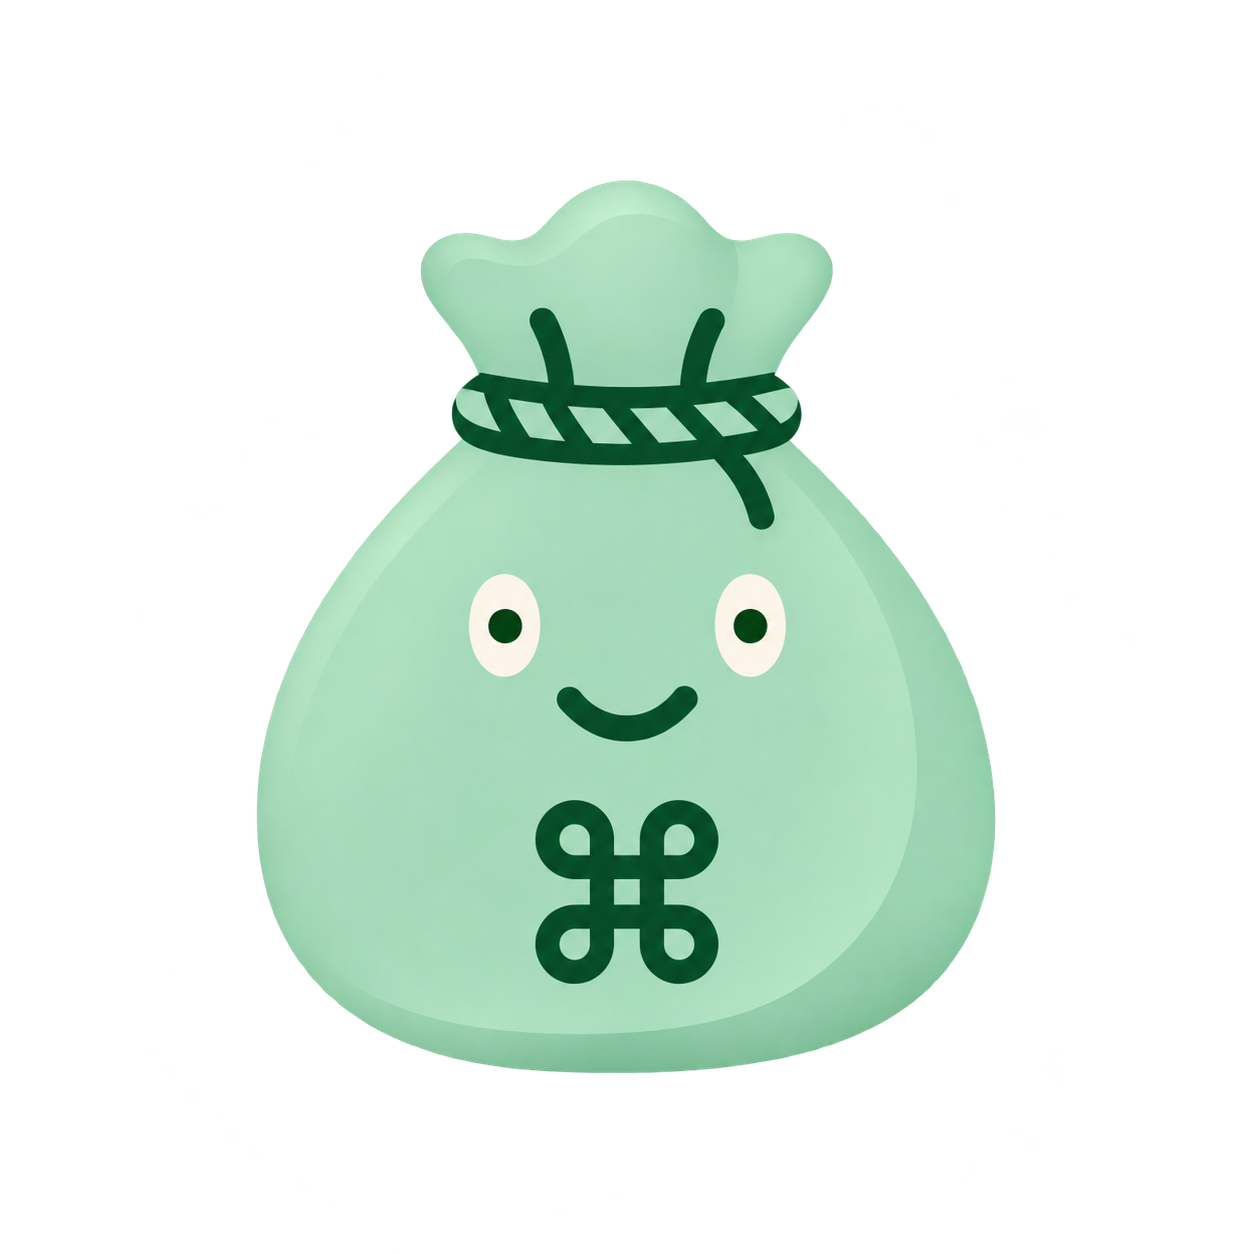
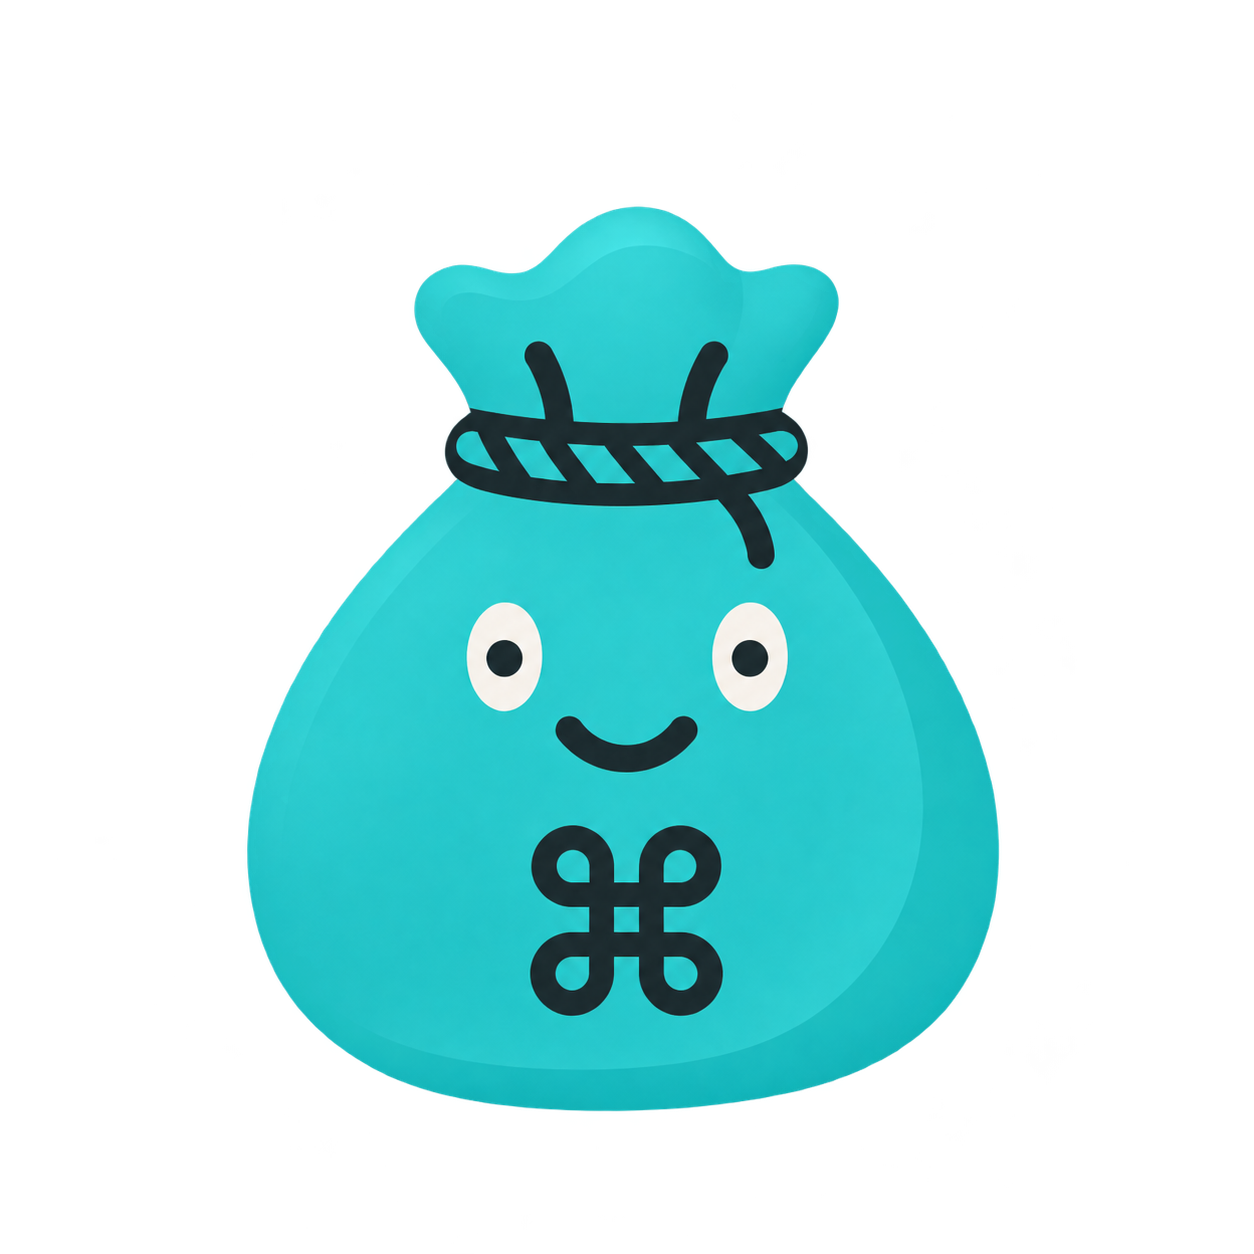
Restore Cliphoard teal and keep sensitive reveal in its panel

diff --git a/Sources/Cliphoard/Support/SensitiveClipReveal.swift b/Sources/Cliphoard/Support/SensitiveClipReveal.swift
@@ -66,9 +66,16 @@ final class SensitiveClipReveal: ObservableObject {
     private var state = SensitiveRevealState()
     private var context: LAContext?
     private var expiry: Timer?
+    private var completion: Task<Void, Never>?
+    private let authenticate: (LAContext, @escaping @Sendable (Bool) -> Void) -> Void
+    private let restoreFocus: (NSWindow?) -> Bool
     private var observers: [NSObjectProtocol] = []
 
-    private init() {
+    init(authenticate: ((LAContext, @escaping @Sendable (Bool) -> Void) -> Void)? = nil,
+         restoreFocus: ((NSWindow?) -> Bool)? = nil, observeSystemEvents: Bool = true) {
+        self.authenticate = authenticate ?? Self.authenticateWithMac
+        self.restoreFocus = restoreFocus ?? Self.restoreAuthenticationFocus
+        guard observeSystemEvents else { return }
         for name in [NSWorkspace.sessionDidResignActiveNotification, NSWorkspace.screensDidSleepNotification,
                      NSWorkspace.willSleepNotification] {
             observers.append(NSWorkspace.shared.notificationCenter.addObserver(forName: name, object: nil, queue: .main) { [weak self] _ in
@@ -83,20 +90,42 @@ final class SensitiveClipReveal: ObservableObject {
                 Task { @MainActor in self?.lock() }
             })
         observers.append(NotificationCenter.default.addObserver(forName: NSApplication.didResignActiveNotification, object: nil, queue: .main) { [weak self] _ in
-            Task { @MainActor in
-                // LA's own system prompt may deactivate the app. Sleep/session
-                // notifications still cancel pending authentication unconditionally.
+            MainActor.assumeIsolated {
+                // This notification belongs to the focus change that just happened.
+                // Reading the state on a later task can relock a completed prompt.
                 guard let self, !self.isAuthenticating else { return }
                 self.lock()
             }
         })
     }
+
+    private static func authenticateWithMac(_ context: LAContext, reply: @escaping @Sendable (Bool) -> Void) {
+        // Uses the system's device-owner authentication, including its configured fallback.
+        context.touchIDAuthenticationAllowableReuseDuration = 0
+        guard context.canEvaluatePolicy(.deviceOwnerAuthentication, error: nil) else {
+            reply(false)
+            return
+        }
+        context.evaluatePolicy(.deviceOwnerAuthentication, localizedReason: "Reveal this sensitive clipboard item") {
+            success, _ in reply(success)
+        }
+    }
+
+    private static func restoreAuthenticationFocus(_ origin: NSWindow?) -> Bool {
+        guard let origin, origin.isVisible, NSApp.isActive || origin.isKeyWindow else { return false }
+        guard NSApp.keyWindow == nil || NSApp.keyWindow === origin else { return false }
+        if !origin.isKeyWindow { origin.makeKey() }
+        return origin.isKeyWindow
+    }
+
     func isConcealed(_ item: ClipItem) -> Bool {
         SensitiveClipPolicy.requiresAuthentication(item)
             && !state.permits(id: item.id, fingerprint: SensitiveClipPolicy.fingerprint(item), now: ProcessInfo.processInfo.systemUptime)
     }
     func lock() {
         state.lock()
+        completion?.cancel()
+        completion = nil
         context?.invalidate()
         context = nil
         expiry?.invalidate()
@@ -106,38 +135,42 @@ final class SensitiveClipReveal: ObservableObject {
         revision &+= 1
     }
     func reveal(_ item: ClipItem) {
+        guard !isAuthenticating else { return }
         lock()
         let request = state.begin(id: item.id, fingerprint: SensitiveClipPolicy.fingerprint(item))
+        let origin = NSApp?.keyWindow
         let context = LAContext()
         self.context = context
-        // Uses system device-owner authentication (Touch ID, Mac password or
-        // other OS-configured mechanisms such as Apple Watch), never a custom
-        // password field, administrator authorization, or biometry-only fallback.
-        context.touchIDAuthenticationAllowableReuseDuration = 0
-        var error: NSError?
-        guard context.canEvaluatePolicy(.deviceOwnerAuthentication, error: &error) else {
-            state.lock()
-            self.context = nil
-            authenticationFailed = true
-            revision &+= 1
-            return
-        }
         isAuthenticating = true
-        context.evaluatePolicy(.deviceOwnerAuthentication, localizedReason: "Reveal this sensitive clipboard item") { [weak self] success, _ in
+
+        authenticate(context) { [weak self, weak origin] success in
             Task { @MainActor in
                 guard let self, self.state.pending == request else { return }
-                self.state.complete(request, success: success,
-                    fingerprint: SensitiveClipPolicy.fingerprint(item), now: ProcessInfo.processInfo.systemUptime)
-                self.context = nil
-                self.isAuthenticating = false
-                self.authenticationFailed = self.isConcealed(item)
-                self.revision &+= 1
-                self.expiry = Timer.scheduledTimer(withTimeInterval: 60, repeats: false) { [weak self] _ in
-                    Task { @MainActor in self?.lock() }
+                self.completion = Task { @MainActor [weak self, weak origin] in
+                    // LocalAuthentication can reply before the system window returns key
+                    // focus. Keep the panel's dismiss guard active through that transition.
+                    try? await Task.sleep(for: .milliseconds(250))
+                    guard !Task.isCancelled, let self, self.state.pending == request else { return }
+                    let focusRestored = self.restoreFocus(origin)
+                    // An explicit close or a lock during focus restoration invalidates the request.
+                    guard self.state.pending == request else { return }
+                    self.state.complete(request, success: success && focusRestored,
+                        fingerprint: SensitiveClipPolicy.fingerprint(item), now: ProcessInfo.processInfo.systemUptime)
+                    self.context = nil
+                    self.completion = nil
+                    self.authenticationFailed = self.isConcealed(item)
+                    self.isAuthenticating = false
+                    self.revision &+= 1
+                    if !self.authenticationFailed {
+                        self.expiry = Timer.scheduledTimer(withTimeInterval: 60, repeats: false) { [weak self] _ in
+                            Task { @MainActor in self?.lock() }
+                        }
+                    }
                 }
             }
         }
     }
+
 }
 
 /// Replaces the content subtree; no blur, opacity or accessibility-only mask.
@@ -145,7 +178,7 @@ final class SensitiveClipReveal: ObservableObject {
 @MainActor
 struct SensitiveClipPlaceholder: View {
     let item: ClipItem
-    @ObservedObject private var reveal = SensitiveClipReveal.shared
+    @ObservedObject var reveal = SensitiveClipReveal.shared
     var body: some View {
         VStack(spacing: 12) {
             Image(systemName: "lock.shield.fill").font(.title)

diff --git a/Tests/CliphoardTests/SensitiveRevealInteractionTests.swift b/Tests/CliphoardTests/SensitiveRevealInteractionTests.swift
@@ -1,0 +1,108 @@
+import AppKit
+import SwiftUI
+import XCTest
+@testable import Cliphoard
+
+@MainActor
+final class SensitiveRevealInteractionTests: XCTestCase {
+    func testAuthenticationKeepsDismissGuardUntilFocusReturns() async throws {
+        var reply: (@Sendable (Bool) -> Void)?
+        var focusRestorations = 0
+        let reveal = SensitiveClipReveal(authenticate: { _, callback in reply = callback },
+            restoreFocus: { _ in focusRestorations += 1; return true }, observeSystemEvents: false)
+        let item = sensitiveClip()
+        reveal.reveal(item)
+        XCTAssertTrue(reveal.isAuthenticating)
+        try XCTUnwrap(reply)(true)
+        await Task.yield()
+        XCTAssertTrue(reveal.isAuthenticating, "macOS can report success before returning key focus")
+        XCTAssertTrue(reveal.isConcealed(item))
+        try await waitForCompletion(reveal)
+        XCTAssertEqual(focusRestorations, 1)
+        XCTAssertFalse(reveal.isConcealed(item))
+        reveal.lock()
+    }
+
+    func testSwitchingAwayOrLockingDuringAuthenticationStaysConcealed() async throws {
+        var reply: (@Sendable (Bool) -> Void)?
+        let reveal = SensitiveClipReveal(authenticate: { _, callback in reply = callback },
+            restoreFocus: { _ in false }, observeSystemEvents: false)
+        let item = sensitiveClip()
+        reveal.reveal(item)
+        try XCTUnwrap(reply)(true)
+        try await waitForCompletion(reveal)
+        XCTAssertTrue(reveal.isConcealed(item))
+        XCTAssertTrue(reveal.authenticationFailed)
+        reveal.reveal(item)
+        let lateReply = try XCTUnwrap(reply)
+        reveal.lock()
+        lateReply(true)
+        await Task.yield()
+        XCTAssertTrue(reveal.isConcealed(item))
+        XCTAssertFalse(reveal.isAuthenticating)
+        XCTAssertFalse(reveal.authenticationFailed)
+    }
+
+    func testCancellingAuthenticationReturnsFocusButStaysConcealed() async throws {
+        var restored = false
+        let reveal = SensitiveClipReveal(authenticate: { _, reply in reply(false) },
+            restoreFocus: { _ in restored = true; return true }, observeSystemEvents: false)
+        let item = sensitiveClip()
+        reveal.reveal(item)
+        try await waitForCompletion(reveal)
+        XCTAssertTrue(restored)
+        XCTAssertTrue(reveal.isConcealed(item))
+        XCTAssertTrue(reveal.authenticationFailed)
+    }
+
+    func testNativeRevealClickDoesNotActivateTheSelectedCard() async throws {
+        _ = NSApplication.shared
+        var prompts = 0
+        var cardTaps = 0
+        let reveal = SensitiveClipReveal(authenticate: { _, _ in prompts += 1 },
+            observeSystemEvents: false)
+        let card = ClipCardView(sensitiveReveal: reveal, item: sensitiveClip(), index: 0,
+            selected: true, storeDir: FileManager.default.temporaryDirectory, onActivate: { cardTaps += 1 },
+            onInspect: {}, onInspectTags: {}, onPin: {}, onDelete: {}, historyIsMutable: true,
+            onTap: { cardTaps += 1 })
+        let host = NSHostingView(rootView: card)
+        let window = NSWindow(contentRect: NSRect(x: 80, y: 80, width: Theme.cardWidth, height: Theme.thumbnailHeight),
+                              styleMask: [.borderless], backing: .buffered, defer: false)
+        window.isReleasedWhenClosed = false
+        window.contentView = host
+        window.orderBack(nil)
+        defer { reveal.lock(); window.close() }
+        host.layoutSubtreeIfNeeded()
+        try await Task.sleep(for: .milliseconds(100))
+        // The centered button follows two text rows and the shield. Try a small
+        // vertical range to account for the user's chosen text metrics and bar height.
+        for offset in stride(from: 34.0, through: 90.0, by: 8.0) where prompts == 0 {
+            let y = host.bounds.midY + (host.isFlipped ? offset : -offset)
+            let point = host.convert(NSPoint(x: host.bounds.midX, y: y), to: nil)
+            for type in [NSEvent.EventType.leftMouseDown, .leftMouseUp] {
+                let event = try XCTUnwrap(NSEvent.mouseEvent(with: type, location: point,
+                    modifierFlags: [], timestamp: ProcessInfo.processInfo.systemUptime,
+                    windowNumber: window.windowNumber, context: nil, eventNumber: Int(offset),
+                    clickCount: 1, pressure: 1))
+                window.sendEvent(event)
+            }
+            try await Task.sleep(for: .milliseconds(20))
+        }
+        XCTAssertEqual(prompts, 1)
+        XCTAssertEqual(cardTaps, 0)
+        XCTAssertTrue(reveal.isAuthenticating)
+    }
+
+    private func sensitiveClip() -> ClipItem {
+        let item = ClipItem(kind: .text, text: "Synthetic protected fixture")
+        item.flags = [.secret]
+        return item
+    }
+
+    private func waitForCompletion(_ reveal: SensitiveClipReveal) async throws {
+        for _ in 0..<30 where reveal.isAuthenticating {
+            try await Task.sleep(for: .milliseconds(25))
+        }
+        XCTAssertFalse(reveal.isAuthenticating)
+    }
+}

diff --git a/Tests/CliphoardTests/BrandIconTests.swift b/Tests/CliphoardTests/BrandIconTests.swift
@@ -21,12 +21,13 @@ final class BrandIconTests: XCTestCase {
                 XCTAssertEqual(try XCTUnwrap(bitmap.colorAt(x: x, y: y)).alphaComponent, 0)
             }
             let fabric = try XCTUnwrap(bitmap.colorAt(x: bitmap.pixelsWide / 2,
-                y: bitmap.pixelsHigh * 3 / 5)?.usingColorSpace(.deviceRGB))
+                y: bitmap.pixelsHigh * 63 / 100)?.usingColorSpace(.deviceRGB))
             XCTAssertGreaterThan(fabric.alphaComponent, 0.99)
+            XCTAssertGreaterThan(fabric.greenComponent, fabric.redComponent + 0.25)
+            XCTAssertGreaterThan(fabric.blueComponent, fabric.redComponent + 0.25)
             brightness.append((fabric.redComponent + fabric.greenComponent + fabric.blueComponent) / 3)
         }
-        XCTAssertLessThan(brightness[0], 0.4, "Light themes use the deeper green mascot")
-        XCTAssertGreaterThan(brightness[1], 0.7, "Dark themes use the lighter green mascot")
+        XCTAssertGreaterThan(brightness[1], brightness[0] + 0.04, "Dark UI uses the brighter teal")
     }
     func testPupilsAreCenteredWithinBothEyeWhites() throws {
         for scheme in [ColorScheme.light, .dark] {
@@ -36,7 +37,7 @@ final class BrandIconTests: XCTestCase {
             let height = bitmap.pixelsHigh
             for xRange in [0.30...0.47, 0.53...0.67] {
                 var eyePixels: [(Int, Int)] = []
-                for y in Int(Double(height) * 0.45)...Int(Double(height) * 0.54) {
+                for y in Int(Double(height) * 0.47)...Int(Double(height) * 0.57) {
                     for x in Int(Double(width) * xRange.lowerBound)...Int(Double(width) * xRange.upperBound) {
                         guard let color = bitmap.colorAt(x: x, y: y)?.usingColorSpace(.deviceRGB) else { continue }
                         if color.alphaComponent > 0.99 && color.redComponent > 0.85 &&
@@ -52,8 +53,8 @@ final class BrandIconTests: XCTestCase {
                 let center = try XCTUnwrap(bitmap.colorAt(x: (left + right) / 2,
                     y: (top + bottom) / 2)?.usingColorSpace(.deviceRGB))
                 XCTAssertLessThan(center.redComponent, 0.3)
-                XCTAssertGreaterThan(center.greenComponent, center.redComponent + 0.1,
-                    "The green pupil sits at the center of each ivory eye")
+                XCTAssertGreaterThan(center.greenComponent, center.redComponent + 0.02,
+                    "The dark teal pupil sits at the center of each ivory eye")
             }
         }
     }

diff --git a/Sources/Cliphoard/UI/ContentView.swift b/Sources/Cliphoard/UI/ContentView.swift
@@ -633,7 +633,8 @@ struct ContentView: View {
                                 // when the app looks broken is to clear it.
                                 historyIsMutable: !store.safeMode,
                                 modelTags: ClipCardTags.modelLabels(for: row.item, embedder: EmbedderProvider.active),
-                                onFileVerb: { model.onFileVerb?(row.item, $0) }
+                                onFileVerb: { model.onFileVerb?(row.item, $0) },
+                                onTap: { model.click(row.index) }
                             )
                             // Identity is the clip's id (from ForEach) — NOT the index.
                             // An index-based .id reused stale views across filters
@@ -643,7 +644,6 @@ struct ContentView: View {
                                     Text(source).font(.caption2).padding(4).background(.regularMaterial).allowsHitTesting(false)
                                 }
                             }
-                            .onTapGesture { model.click(row.index) }
                         }
                     }
                 }
@@ -815,7 +815,7 @@ struct ContentView: View {
         if results.indices.contains(model.selection) {
             let item = results[model.selection]
             if sensitiveReveal.isConcealed(item) {
-                SensitiveClipPlaceholder(item: item)
+                SensitiveClipPlaceholder(item: item, reveal: sensitiveReveal)
             } else {
                 revealedPreviewPane(item)
             }

diff --git a/Sources/Cliphoard/UI/ClipCardView.swift b/Sources/Cliphoard/UI/ClipCardView.swift
@@ -378,6 +378,7 @@ struct ClipCardView: View {
     /// uses, and not the `historyIsMutable` case, which is about a control that would look
     /// live while refusing.
     var onFileVerb: ((FileVerb) -> Void)? = nil
+    var onTap: (() -> Void)? = nil
 
 
     /// Decoded thumbnails keyed by file name, so the body doesn't re-decode the
@@ -405,12 +406,13 @@ struct ClipCardView: View {
 
     @ViewBuilder var body: some View {
         if sensitiveReveal.isConcealed(item) {
-            SensitiveClipPlaceholder(item: item)
+            SensitiveClipPlaceholder(item: item, reveal: sensitiveReveal)
                 .frame(width: Theme.cardWidth, height: Theme.thumbnailHeight)
                 .background(Theme.cardBackground())
                 .clipShape(RoundedRectangle(cornerRadius: Theme.cornerRadius))
         } else {
             revealedBody
+                .onTapGesture { onTap?() }
         }
     }
 

diff --git a/Tests/CliphoardTests/NativeCardInteractionTests.swift b/Tests/CliphoardTests/NativeCardInteractionTests.swift
@@ -66,8 +66,7 @@ final class NativeCardInteractionTests: XCTestCase {
         let card = ClipCardView(item: item, index: 10, selected: selected,
             storeDir: dir,
             onActivate: {}, onInspect: { inspected += 1 }, onInspectTags: {},
-            onPin: {}, onDelete: {}, historyIsMutable: true)
-            .onTapGesture { selectedByClick += 1 }
+            onPin: {}, onDelete: {}, historyIsMutable: true, onTap: { selectedByClick += 1 })
         let host = TestHostingView(rootView: card)
         let window = NSWindow(contentRect: NSRect(x: 80, y: 80, width: 220,
                                                  height: max(250, Theme.thumbnailStripHeight)),

diff --git a/Scripts/audit-no-models.py b/Scripts/audit-no-models.py
@@ -30,8 +30,8 @@ def check_environment(environment):
 
 
 BRAND_ICON_PINS = {
[4 lines of base64/hex data omitted]
 }
 
 TEXT_RESOURCES = {"LICENSE", "LICENSE-Apache-2.0.txt", "THIRD-PARTY-NOTICES.md"}
